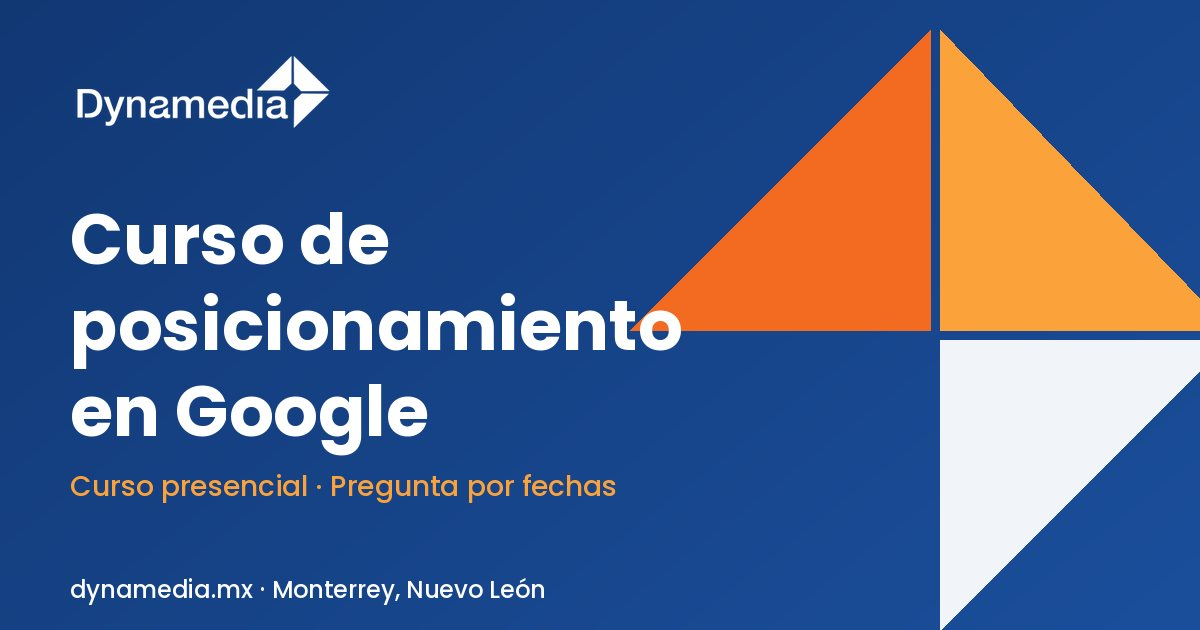
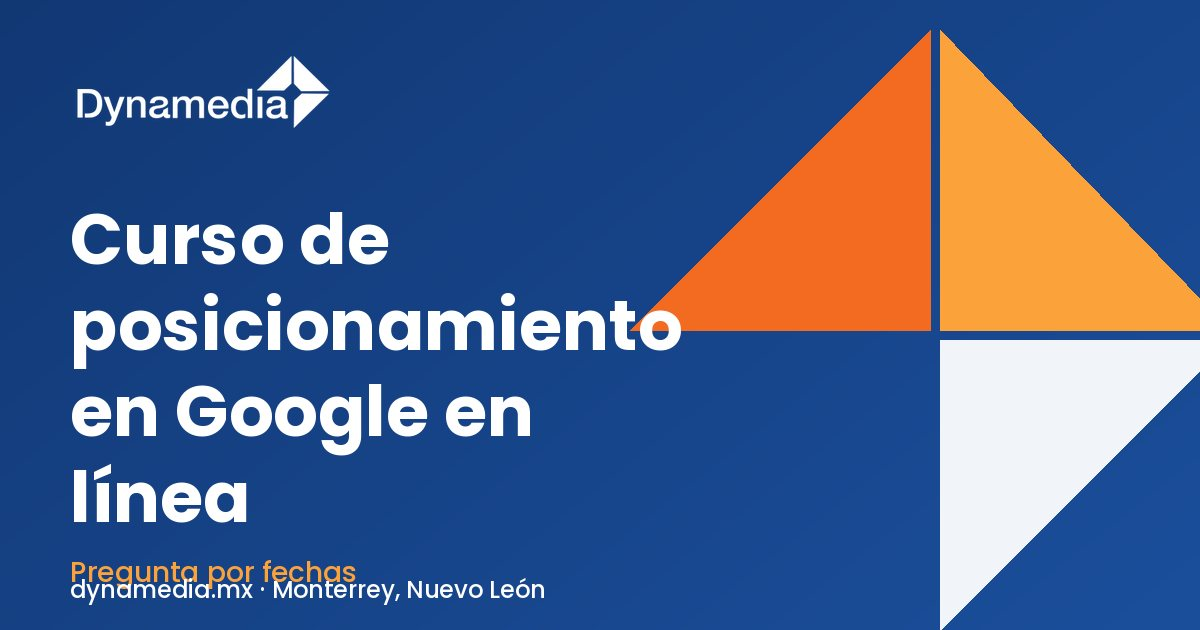
Add files via upload

Changed region(s): [[0.0617, 0.7238, 0.5242, 0.8444], [0.0617, 0.8746, 0.3083, 0.9349], [0.37, 0.6333, 0.4625, 0.6937]]

diff --git a/lib/cursos.ts b/lib/cursos.ts
@@ -11,20 +11,20 @@ export type Curso = {
 
 const m = (t: string, d: string, temas: string[]): Modulo => ({ t, d, temas });
 const f = (q: string, a: string): Faq => ({ q, a });
-const incluye = ['Clases presenciales en Monterrey', 'Práctica guiada paso a paso', 'Material de apoyo', 'Resolución de dudas posteriores'];
+const incluye = ['Clases en línea', 'Práctica guiada paso a paso', 'Material de apoyo', 'Resolución de dudas posteriores'];
 const costo = f('¿Cuánto cuesta y cuándo es el siguiente curso?', 'Pregúntanos por fechas, horarios y costo; te respondemos por WhatsApp o por correo.');
 
 // TEMARIOS Y DETALLES: propuesta redactada por Claude a partir de los nombres de los cursos. Ajusta a tu temario real.
 export const cursos: Curso[] = [
   {
-    slug: 'wordpress-monterrey', nombre: 'Curso de WordPress en Monterrey', icono: 'Globe', visual: 'navegador',
+    slug: 'wordpress-monterrey', nombre: 'Curso de WordPress en línea', icono: 'Globe', visual: 'navegador',
     corto: 'Aprende a crear y administrar tu propio sitio web, paso a paso y sin saber programar.',
-    h1: 'Curso de WordPress en Monterrey, Nuevo León',
-    title: 'Curso de WordPress en Monterrey, N.L. | Dynamedia',
-    description: 'Curso presencial de WordPress en Monterrey, N.L.: crea y administra tu propio sitio web paso a paso, sin saber programar. Pregunta por fechas.',
+    h1: 'Curso de WordPress en línea',
+    title: 'Curso de WordPress en línea | Dynamedia',
+    description: 'Curso en línea de WordPress de Dynamedia (Monterrey, N.L.): crea y administra tu propio sitio web paso a paso, sin saber programar. Pregunta por fechas.',
     intro: [
       'WordPress es una de las plataformas más usadas para crear sitios web, y permite que una persona sin conocimientos de programación publique, edite y mantenga su propia página.',
-      'En este curso presencial en Monterrey aprendes desde cero a montar tu sitio, personalizar su diseño, agregar funciones y mantenerlo seguro, con práctica guiada por un equipo que desarrolla sitios web desde 2010.',
+      'En este curso en línea aprendes desde cero a montar tu sitio, personalizar su diseño, agregar funciones y mantenerlo seguro, con práctica guiada por un equipo que desarrolla sitios web desde 2010.',
     ],
     aprenderas: [
       'Montar tu sitio en WordPress con dominio y hosting', 'Crear páginas, entradas y menús bien organizados', 'Personalizar el diseño con temas y constructores visuales',
@@ -42,11 +42,11 @@ export const cursos: Curso[] = [
     ],
     practica: 'Durante el curso construyes tu propio sitio web, o el de tu empresa, desde cero, y sales con una base lista para terminar y publicar.',
     paraQuien: ['Emprendedores y dueños de negocio', 'Personal de marketing o comunicación que actualiza la página de su empresa', 'Profesionistas que quieren su propio sitio', 'Quienes desean dejar de depender de terceros para cambios sencillos'],
-    requisitos: ['No necesitas saber programar', 'Manejo básico de computadora e internet', 'Computadora portátil con conexión a internet', 'Opcional: tu logotipo, textos e imágenes para practicar con tu proyecto'],
+    requisitos: ['No necesitas saber programar', 'Manejo básico de computadora e internet', 'Computadora con conexión a internet estable', 'Opcional: tu logotipo, textos e imágenes para practicar con tu proyecto'],
     incluye,
     faqs: [
       f('¿Necesito saber programar?', 'No. El curso está pensado para personas sin conocimientos técnicos; aprendes a usar WordPress paso a paso.'),
-      f('¿El curso es presencial?', 'Sí, es presencial en Monterrey, Nuevo León.'),
+      f('¿El curso es en línea?', 'Sí. Se imparte en línea, así que puedes tomarlo desde cualquier lugar. Pregúntanos por fechas y horarios.'),
       f('¿Puedo trabajar con mi propio proyecto?', 'Sí. Si llevas tu logotipo, textos e imágenes, practicas directamente con el sitio de tu negocio.'),
       costo,
     ],
@@ -55,12 +55,12 @@ export const cursos: Curso[] = [
   {
     slug: 'posicionamiento-en-google', nombre: 'Curso de posicionamiento web en Google', icono: 'Search', visual: 'buscador',
     corto: 'Aprende a mejorar la visibilidad de tu sitio en Google y a medir si funciona.',
-    h1: 'Curso de posicionamiento web en Google en Monterrey',
-    title: 'Curso de posicionamiento web en Google, Monterrey | Dynamedia',
-    description: 'Curso presencial de SEO y posicionamiento en Google en Monterrey, N.L.: mejora la visibilidad de tu sitio y mide resultados. Pregunta por fechas.',
+    h1: 'Curso de posicionamiento web en Google en línea',
+    title: 'Curso de posicionamiento web en Google en línea | Dynamedia',
+    description: 'Curso en línea de SEO y posicionamiento en Google de Dynamedia (Monterrey, N.L.): mejora la visibilidad de tu sitio y mide resultados. Pregunta por fechas.',
     intro: [
       'El posicionamiento web (SEO) ayuda a que tu sitio aparezca cuando las personas buscan lo que ofreces. No es magia ni se compra: se construye con una estrategia y con trabajo constante.',
-      'En este curso presencial en Monterrey aprendes cómo funciona Google, cómo elegir palabras clave, cómo optimizar tu sitio y cómo medir resultados, con énfasis en el SEO local para negocios de Monterrey y Nuevo León.',
+      'En este curso en línea aprendes cómo funciona Google, cómo elegir palabras clave, cómo optimizar tu sitio y cómo medir resultados, con énfasis en el SEO local para negocios de Monterrey y Nuevo León.',
     ],
     aprenderas: [
       'Entender cómo Google encuentra, indexa y ordena las páginas', 'Elegir las palabras clave que usan tus clientes', 'Optimizar títulos, textos, encabezados y estructura de tu sitio',
@@ -78,7 +78,7 @@ export const cursos: Curso[] = [
     ],
     practica: 'Haces una auditoría básica de tu propio sitio y sales con un plan de acción priorizado para empezar a mejorar tu posicionamiento.',
     paraQuien: ['Dueños de negocio que ya tienen sitio web', 'Equipos de marketing y ventas', 'Freelancers y consultores', 'Quienes administran un sitio en WordPress u otra plataforma'],
-    requisitos: ['Manejo básico de internet', 'Idealmente, un sitio web propio para practicar', 'Computadora portátil con conexión a internet', 'No necesitas conocimientos técnicos previos'],
+    requisitos: ['Manejo básico de internet', 'Idealmente, un sitio web propio para practicar', 'Computadora con conexión a internet estable', 'No necesitas conocimientos técnicos previos'],
     incluye,
     faqs: [
       f('¿El curso garantiza que mi sitio llegue a la primera posición?', 'No. Nadie puede garantizarlo, porque Google decide con muchos factores. Aprendes qué sí puedes mejorar y cómo medir el avance.'),

diff --git a/app/cursos/page.tsx b/app/cursos/page.tsx
@@ -14,8 +14,8 @@ import { metaPagina } from '@/lib/seo';
 import { migas } from '@/lib/schema';
 
 export const metadata: Metadata = metaPagina({
-  title: 'Cursos de WordPress y SEO en Monterrey | Dynamedia',
-  description: 'Cursos presenciales de WordPress y de posicionamiento web en Google en Monterrey, N.L. Aprende a crear y posicionar tu sitio. Pregunta por fechas.',
+  title: 'Cursos en línea de WordPress y SEO | Dynamedia',
+  description: 'Cursos en línea de WordPress y de posicionamiento web en Google de Dynamedia (Monterrey, N.L.). Aprende a crear y posicionar tu sitio. Pregunta por fechas.',
   path: '/cursos', imagen: '/og/cursos.jpg',
 });
 
@@ -32,12 +32,12 @@ const filas: { t: string; v: (c: Curso) => string }[] = [
   { t: 'Contenido', v: (c) => `${c.temario.length} módulos` },
 ];
 const faqs = [
-  { q: '¿Los cursos son presenciales?', a: 'Sí. Nuestros cursos de WordPress y de posicionamiento web son presenciales, en Monterrey, Nuevo León.' },
+  { q: '¿Los cursos son en línea?', a: 'Sí. Nuestros cursos de WordPress y de posicionamiento web son en línea, para que los tomes desde donde estés.' },
   { q: '¿Puedo tomar los dos cursos?', a: 'Sí. Se complementan: primero creas o administras tu sitio con WordPress y después aprendes a posicionarlo en Google.' },
   { q: '¿Capacitan a equipos de empresas?', a: 'Podemos preparar talleres a la medida de tu equipo. Cuéntanos tus objetivos y te proponemos un temario.' },
   { q: '¿Cuánto cuestan y cuándo son las próximas fechas?', a: 'Pregúntanos por fechas, horarios y costos; te respondemos por WhatsApp o por correo.' },
 ];
-const frases = ['curso de seo en monterrey', 'agencia de marketing digital monterrey', 'cómo salir en google maps', 'diseño web monterrey'];
+const frases = ['curso de seo en línea', 'agencia de marketing digital monterrey', 'cómo salir en google maps', 'diseño web monterrey'];
 
 export default function Cursos() {
   const wa = `${WA_BASE}${encodeURIComponent('Hola, quiero información sobre los cursos de Dynamedia en Monterrey')}`;
@@ -58,9 +58,9 @@ export default function Cursos() {
           </Parallax>
           <div className="relative mx-auto max-w-6xl px-5">
             <nav aria-label="Ruta de navegación" className="text-sm text-white/70"><Link href="/" className="hover:text-white">Inicio</Link> / Cursos</nav>
-            <p className="mt-6 text-sm font-semibold uppercase tracking-widest text-naranja-claro">Cursos presenciales · Monterrey, Nuevo León</p>
-            <h1 className="mt-3 max-w-3xl font-display text-4xl font-extrabold leading-tight md:text-6xl">Cursos de WordPress y posicionamiento en Google en Monterrey</h1>
-            <p className="mt-6 max-w-2xl text-xl text-white/85">Aprende a crear, administrar y posicionar tu propio sitio web con práctica guiada, en persona.</p>
+            <p className="mt-6 text-sm font-semibold uppercase tracking-widest text-naranja-claro">Cursos en línea</p>
+            <h1 className="mt-3 max-w-3xl font-display text-4xl font-extrabold leading-tight md:text-6xl">Cursos en línea de WordPress y posicionamiento en Google</h1>
+            <p className="mt-6 max-w-2xl text-xl text-white/85">Aprende a crear, administrar y posicionar tu propio sitio web con práctica guiada, desde donde estés.</p>
             <div className="mt-8 flex flex-wrap gap-4">
               <Magnetico><a href="#cursos-disponibles" className="brillo block rounded-full bg-naranja px-8 py-4 text-sm font-semibold uppercase tracking-widest hover:bg-naranja-claro">Ver los cursos</a></Magnetico>
               <Magnetico><a href={wa} className="flex items-center gap-2 rounded-full border border-white/40 px-8 py-4 text-sm font-semibold uppercase tracking-widest hover:bg-white/10"><MessageCircle size={18} /> Pregunta por fechas</a></Magnetico>
@@ -81,7 +81,7 @@ export default function Cursos() {
                         {c.visual === 'navegador' ? <MockNavegador /> : <BuscadorTyping frases={frases} />}
                       </div>
                       <div className="flex flex-1 flex-col p-8">
-                        <p className="text-sm font-semibold uppercase tracking-widest text-naranja">Curso presencial · Monterrey</p>
+                        <p className="text-sm font-semibold uppercase tracking-widest text-naranja">Curso en línea</p>
                         <h3 className="mt-1 font-display text-2xl font-bold text-azul">{c.nombre}</h3>
                         <p className="mt-2 text-grafito/80">{c.corto}</p>
                         <ul className="mt-5 space-y-2">{c.aprenderas.slice(0, 3).map((a) => <li key={a} className="flex gap-2 text-sm"><Check size={18} className="mt-0.5 shrink-0 text-naranja" />{a}</li>)}</ul>

diff --git a/app/cursos/[slug]/page.tsx b/app/cursos/[slug]/page.tsx
@@ -1,7 +1,7 @@
 import type { Metadata } from 'next';
 import Link from 'next/link';
 import { notFound } from 'next/navigation';
-import { ArrowUpRight, Check, MapPin, ListChecks, CalendarDays, MessageCircle } from 'lucide-react';
+import { ArrowUpRight, Check, Laptop, ListChecks, CalendarDays, MessageCircle } from 'lucide-react';
 import Header from '@/components/Header';
 import Footer from '@/components/Footer';
 import Faq from '@/components/Faq';
@@ -37,7 +37,7 @@ export default function CursoPage({ params }: { params: { slug: string } }) {
   const Icono = iconos[c.icono];
   const grafo = { '@context': 'https://schema.org', '@graph': [
     { '@type': 'Course', name: c.h1, description: c.description, url, inLanguage: 'es-MX', provider: { '@id': NEGOCIO_ID },
-      hasCourseInstance: { '@type': 'CourseInstance', courseMode: 'onsite', location: { '@type': 'Place', name: 'Monterrey, Nuevo León', address: { '@type': 'PostalAddress', addressLocality: 'Monterrey', addressRegion: 'Nuevo León', addressCountry: 'MX' } } } },
+      hasCourseInstance: { '@type': 'CourseInstance', courseMode: 'online' } },
     { '@type': 'BreadcrumbList', itemListElement: [
       { '@type': 'ListItem', position: 1, name: 'Inicio', item: SITE }, { '@type': 'ListItem', position: 2, name: 'Cursos', item: `${SITE}/cursos` }, { '@type': 'ListItem', position: 3, name: c.nombre, item: url } ] },
     { '@type': 'FAQPage', mainEntity: c.faqs.map((x) => ({ '@type': 'Question', name: x.q, acceptedAnswer: { '@type': 'Answer', text: x.a } })) },
@@ -62,11 +62,11 @@ export default function CursoPage({ params }: { params: { slug: string } }) {
               <nav aria-label="Ruta de navegación" className="text-sm text-white/70">
                 <Link href="/" className="hover:text-white">Inicio</Link> / <Link href="/cursos" className="hover:text-white">Cursos</Link> / {c.nombre}
               </nav>
-              <p className="mt-6 text-sm font-semibold uppercase tracking-widest text-naranja-claro">Curso presencial · Monterrey, Nuevo León</p>
+              <p className="mt-6 text-sm font-semibold uppercase tracking-widest text-naranja-claro">Curso en línea</p>
               <h1 className="mt-3 font-display text-4xl font-extrabold leading-tight md:text-6xl">{c.h1}</h1>
               <p className="mt-6 max-w-2xl text-lg text-white/85">{c.description}</p>
               <ul className="mt-6 flex flex-wrap gap-3 text-sm">
-                {['Presencial', 'Monterrey, N.L.', 'Práctica guiada'].map((x) => <li key={x} className="rounded-full border border-white/25 px-4 py-1.5">{x}</li>)}
+                {['En línea', 'Práctica guiada', 'Material de apoyo'].map((x) => <li key={x} className="rounded-full border border-white/25 px-4 py-1.5">{x}</li>)}
               </ul>
               <div className="mt-8 flex flex-wrap gap-4">
                 <Magnetico><a href={wa} className="brillo flex items-center gap-2 rounded-full bg-naranja px-8 py-4 text-sm font-semibold uppercase tracking-widest hover:bg-naranja-claro"><MessageCircle size={18} /> Pregunta por fechas</a></Magnetico>
@@ -90,7 +90,7 @@ export default function CursoPage({ params }: { params: { slug: string } }) {
               <Tarjeta className="border border-black/10 bg-white p-8">
                 <h3 className="font-display text-xl font-bold text-azul">Datos del curso</h3>
                 <ul className="mt-5 space-y-4">
-                  <li className="flex gap-3"><MapPin size={20} className="mt-0.5 shrink-0 text-naranja" /><span><strong>Modalidad:</strong> presencial en Monterrey, N.L.</span></li>
+                  <li className="flex gap-3"><Laptop size={20} className="mt-0.5 shrink-0 text-naranja" /><span><strong>Modalidad:</strong> en línea, desde donde estés</span></li>
                   <li className="flex gap-3"><ListChecks size={20} className="mt-0.5 shrink-0 text-naranja" /><span><strong>Contenido:</strong> {c.temario.length} módulos prácticos</span></li>
                   <li className="flex gap-3"><CalendarDays size={20} className="mt-0.5 shrink-0 text-naranja" /><span><strong>Fechas y costo:</strong> pregúntanos y te respondemos pronto</span></li>
                 </ul>

diff --git a/lib/servicios.ts b/lib/servicios.ts
@@ -250,16 +250,16 @@ export const servicios: Servicio[] = [
   },
   {
     slug: 'capacitacion', nombre: 'Capacitación', eje: 'marca', icono: 'GraduationCap',
-    corto: 'Cursos presenciales y talleres para que tu equipo domine las herramientas digitales.',
-    h1: 'Cursos y capacitación digital en Monterrey, Nuevo León',
-    title: 'Cursos y capacitación digital en Monterrey | Dynamedia',
-    description: 'Cursos presenciales de WordPress y SEO en Monterrey, y talleres de marketing digital para equipos. Pregunta por fechas y capacitación a la medida.',
+    corto: 'Cursos en línea y talleres para que tu equipo domine las herramientas digitales.',
+    h1: 'Cursos y capacitación digital en línea',
+    title: 'Cursos y capacitación digital en línea | Dynamedia',
+    description: 'Cursos en línea de WordPress y SEO, y talleres de marketing digital para equipos, de Dynamedia (Monterrey, N.L.). Pregunta por fechas y capacitación a la medida.',
     intro: [
       'Una página o una campaña rinde más cuando tu equipo sabe manejarla. Impartimos talleres para que personas y empresas aprendan a crear, administrar y posicionar sus propios sitios.',
-      'Ofrecemos cursos presenciales en Monterrey, como el curso de WordPress y el de posicionamiento web en Google, y también capacitación a la medida para equipos de trabajo.',
+      'Ofrecemos cursos en línea, como el curso de WordPress y el de posicionamiento web en Google, y también capacitación a la medida para equipos de trabajo.',
     ],
     incluye: [
-      i('Curso de WordPress en Monterrey', 'Aprende a crear y administrar tu propio sitio web.'),
+      i('Curso de WordPress en línea', 'Aprende a crear y administrar tu propio sitio web.'),
       i('Curso de posicionamiento web en Google', 'Aprende a mejorar la visibilidad de tu sitio en buscadores.'),
       i('Talleres de marketing digital', 'Estrategias y herramientas para promover tu negocio en internet.'),
       i('Uso de IA en el trabajo diario', 'Cómo aprovechar la inteligencia artificial en tareas de marketing y contenido.'),
@@ -268,14 +268,14 @@ export const servicios: Servicio[] = [
     ],
     beneficios: [
       i('Aprendes practicando', 'Cursos con ejercicios sobre casos reales.'),
-      i('Presencial en Monterrey', 'Resuelves tus dudas en persona.'),
+      i('En línea, desde donde estés', 'Tomas el curso desde cualquier lugar y resuelves tus dudas con nosotros.'),
       i('Para equipos o personas', 'Opciones para particulares y empresas.'),
       i('Más autonomía', 'Dependes menos de terceros para actualizar tu sitio.'),
     ],
     pasos: [i('Definimos objetivos', 'Vemos qué necesitas aprender y para qué.'), i('Armamos el temario', 'Preparamos el contenido adecuado a tu nivel.'), i('Impartimos el curso', 'Sesiones prácticas y participativas.'), i('Resolvemos dudas', 'Te orientamos después del curso.')],
     para: ['Emprendedores que quieren manejar su propio sitio', 'Equipos de marketing y ventas', 'Empresas que quieren actualizar su web sin depender de terceros', 'Profesionales que desean actualizarse'],
     faqs: [
-      f('¿Los cursos son presenciales?', 'Sí, nuestros cursos de WordPress y de posicionamiento web son presenciales en Monterrey. Pregúntanos por fechas y por capacitación a la medida.'),
+      f('¿Los cursos son en línea?', 'Sí, nuestros cursos de WordPress y de posicionamiento web son en línea. Pregúntanos por fechas y por capacitación a la medida.'),
       f('¿Necesito experiencia previa?', 'Depende del curso. Te orientamos para elegir el nivel adecuado antes de inscribirte.'),
       f('¿Pueden preparar un taller para mi equipo?', 'Podemos preparar talleres a la medida de tu equipo. Cuéntanos tus objetivos y te proponemos un temario.'),
     ],

diff --git a/components/heroSlides.ts b/components/heroSlides.ts
@@ -10,8 +10,8 @@ export type Slide = { id: string; eyebrow?: string; titulo: string[]; texto: str
 
 export const slides: Slide[] = [
   { id: 'somos', eyebrow: 'Diseño web, software y marketing digital en Monterrey', titulo: ['Tecnología que', 'impulsa empresas.'], texto: ['Diseñamos y desarrollamos soluciones digitales para empresas que necesitan crecer, optimizar sus procesos y aprovechar mejor la tecnología.', 'Desde sitios web y plataformas de ecommerce hasta software empresarial, automatización y estrategias de crecimiento digital.'], botones: [{ t: 'Cuéntanos tu proyecto', h: '#contacto' }, { t: 'Explora nuestros proyectos', h: '#proyectos' }], fondo: 'linear-gradient(135deg,#123874,#1B4F9C)', imagen: '/hero/01-somos.jpg', video: '/hero/video.mp4', velo: 'rgba(37,99,235,0.82)' },
-  { id: 'diseno-web', eyebrow: 'Diseño web', tam: 'medio', titulo: ['Tu empresa merece una', 'presencia digital', 'extraordinaria.'], texto: 'Diseñamos y desarrollamos sitios web profesionales que fortalecen tu marca, generan confianza y convierten visitantes en oportunidades de negocio.', botones: [{ t: 'Soluciones de diseño web', h: '/servicios/diseno-web' }], fondo: 'linear-gradient(135deg,#1B4F9C,#123874)', imagen: '/hero/02-desarrollo-web.jpg', velo: 'rgba(18,56,116,0.74)' },
-  { id: 'web-ecommerce', eyebrow: 'Desarrollo web & ecommerce', tam: 'medio', titulo: ['Tu negocio, listo para crecer', 'en el mundo digital.'], texto: 'Creamos sitios web profesionales y tiendas en línea que fortalecen tu marca, conectan con tus clientes y abren nuevas oportunidades de venta.', botones: [{ t: 'Conoce nuestras soluciones', h: '/areas/ecommerce' }], fondo: 'linear-gradient(135deg,#1B4F9C,#2B2F36)', imagen: '/hero/02-ecommerce.jpg', velo: 'rgba(18,56,116,0.72)' },
+  { id: 'diseno-web', eyebrow: 'Diseño web', tam: 'medio', titulo: ['Tu empresa merece una', 'presencia digital', 'extraordinaria.'], texto: 'Diseñamos y desarrollamos sitios web profesionales que fortalecen tu marca, generan confianza y convierten visitantes en oportunidades de negocio.', botones: [{ t: 'Soluciones de diseño web', h: '/servicios/diseno-web' }], fondo: 'linear-gradient(135deg,#1B4F9C,#123874)', imagen: '/hero/02-diseno-web.jpg', velo: 'rgba(18,56,116,0.74)' },
+  { id: 'web-ecommerce', eyebrow: 'Diseño web & ecommerce', tam: 'medio', titulo: ['Tu negocio, listo para crecer', 'en el mundo digital.'], texto: 'Creamos sitios web profesionales y tiendas en línea que fortalecen tu marca, conectan con tus clientes y abren nuevas oportunidades de venta.', botones: [{ t: 'Conoce nuestras soluciones', h: '/areas/ecommerce' }], fondo: 'linear-gradient(135deg,#1B4F9C,#2B2F36)', imagen: '/hero/02-ecommerce.jpg', velo: 'rgba(18,56,116,0.72)' },
   { id: 'software', eyebrow: 'Software & automatización', tam: 'medio', titulo: ['Simplifica procesos.', 'Transforma tu empresa.'], texto: 'Desarrollamos sistemas y soluciones tecnológicas a la medida para optimizar operaciones, integrar información y automatizar tareas de tu negocio.', botones: [{ t: 'Descubre lo que podemos desarrollar', h: '/areas/software-a-la-medida' }], fondo: 'linear-gradient(135deg,#123874,#2B2F36)', imagen: '/hero/03-software.jpg', velo: 'rgba(43,47,54,0.66)' },
   { id: 'crecimiento', eyebrow: 'Estrategia & crecimiento digital', tam: 'medio', titulo: ['Haz que tu empresa', 'llegue más lejos.'], texto: 'Impulsamos tu presencia en internet mediante SEO, Google Ads y estrategias digitales enfocadas en atraer clientes y generar oportunidades comerciales.', botones: [{ t: 'Impulsa tu crecimiento digital', h: '/areas/crecimiento-digital' }], fondo: 'linear-gradient(135deg,#F26B21,#123874)', imagen: '/hero/04-crecimiento.jpg', velo: 'rgba(18,56,116,0.68)' },
 ];

diff --git a/lib/areas.ts b/lib/areas.ts
@@ -14,14 +14,14 @@ const f = (q: string, a: string): Faq => ({ q, a });
 // Las 4 áreas de trabajo del inicio. Titular, texto y lista salen de tu información; el resto (intro, beneficios, pasos, preguntas) es propuesta.
 export const areas: Area[] = [
   {
-    slug: 'desarrollo-web', n: '01', nombre: 'Desarrollo web', icono: 'Globe',
+    slug: 'diseno-web', n: '01', nombre: 'Diseño web', icono: 'Globe',
     titulo: 'Tu empresa merece una presencia digital profesional.',
     texto: 'Diseñamos y desarrollamos sitios web funcionales, atractivos y estratégicos que fortalecen tu marca y generan oportunidades comerciales.',
     lista: ['Diseño y desarrollo de páginas web.', 'Sitios web corporativos.', 'Landing pages.', 'Portales y sitios especializados.', 'Rediseño y mantenimiento web.'],
     cta: 'Conoce nuestros servicios web',
-    h1: 'Desarrollo web en Monterrey, Nuevo León',
-    title: 'Desarrollo web en Monterrey: sitios y portales | Dynamedia',
-    description: 'Desarrollo web en Monterrey: sitios corporativos, landing pages, portales y rediseño. Una presencia digital profesional que genera clientes. Cotiza.',
+    h1: 'Diseño web en Monterrey, Nuevo León',
+    title: 'Diseño web en Monterrey: sitios corporativos | Dynamedia',
+    description: 'Diseño web en Monterrey: sitios corporativos, landing pages, portales y rediseño. Una presencia digital profesional que genera clientes. Cotiza.',
     intro: [
       'Tu sitio web es la primera impresión de tu empresa en internet. Tiene que verse profesional, cargar rápido, funcionar en celular y explicar con claridad qué haces y cómo contactarte.',
       'Esta área reúne todo lo que necesitas para lograrlo: diseño y desarrollo de sitios, páginas corporativas, landing pages, portales especializados, y rediseño y mantenimiento de los que ya tienes. Trabajamos con empresas de Monterrey, Nuevo León, y de todo México.',
@@ -30,7 +30,7 @@ export const areas: Area[] = [
     beneficios: [i('Imagen profesional', 'Un sitio que presenta bien a tu empresa desde la primera visita.'), i('Pensado para convertir', 'Estructura y mensajes que invitan al contacto y a la cotización.'), i('Preparado para Google', 'Base técnica y de contenido lista para el posicionamiento.'), i('Con acompañamiento', 'Soporte y actualización después de publicar.')],
     pasos: [i('Descubrimiento', 'Entendemos tu negocio, tu público y lo que necesitas lograr.'), i('Diseño', 'Proponemos la estructura y la imagen de tu sitio.'), i('Desarrollo', 'Construimos y probamos cada sección.'), i('Lanzamiento y soporte', 'Publicamos y seguimos a tu lado.')],
     faqs: [
-      f('¿Qué incluye el área de desarrollo web?', 'Diseño y desarrollo de páginas web, sitios corporativos, landing pages, portales y sitios especializados, y rediseño y mantenimiento web.'),
+      f('¿Qué incluye el área de diseño web?', 'Diseño y desarrollo de páginas web, sitios corporativos, landing pages, portales y sitios especializados, y rediseño y mantenimiento web.'),
       f('¿Pueden rediseñar el sitio que ya tengo?', 'Sí. Revisamos tu sitio actual, conservamos lo que funciona y lo renovamos en diseño, estructura y velocidad.'),
       f('¿Atienden a empresas fuera de Monterrey?', 'Sí. Estamos en Monterrey, Nuevo León, y trabajamos con empresas de todo México.'),
     ],

diff --git a/components/NosotrosTabs.tsx b/components/NosotrosTabs.tsx
@@ -29,7 +29,7 @@ const valores = [
 ];
 const sectores = [
   { icon: Store, t: 'Tiendas departamentales' }, { icon: Factory, t: 'Industriales' }, { icon: Briefcase, t: 'Servicios' },
-  { icon: Newspaper, t: 'Periódicos digitales' }, { icon: Globe, t: 'Sitios informativos' },
+  { icon: Newspaper, t: 'Periódicos digitales' }, { icon: Globe, t: 'Sitios informativos' }, { icon: GraduationCap, t: 'Educación y capacitación' },
 ];
 
 // Tarjeta con luz que sigue al cursor
@@ -137,8 +137,8 @@ export default function NosotrosTabs() {
 
         <div {...panel(3)}>
           <h2 className="font-display text-3xl font-bold md:text-4xl">Empresas que confían en nosotros</h2>
-          <p className="mt-4 max-w-3xl text-lg text-grafito/85">Entre las empresas que nos han brindado su confianza se encuentran tiendas departamentales, industriales y de servicios, así como periódicos digitales y sitios informativos.</p>
-          <div className="mt-8 grid gap-4 sm:grid-cols-2 lg:grid-cols-5">
+          <p className="mt-4 max-w-3xl text-lg text-grafito/85">Entre las empresas que nos han brindado su confianza se encuentran tiendas departamentales, industriales y de servicios, así como periódicos digitales, sitios informativos y proyectos de educación y capacitación.</p>
+          <div className="mt-8 grid gap-4 sm:grid-cols-3 lg:grid-cols-6">
             {sectores.map(({ icon: Icon, t }) => (
               <Tarjeta key={t} className="text-center"><div className="mx-auto flex h-12 w-12 items-center justify-center rounded-lg bg-azul text-white transition-colors group-hover:bg-naranja"><Icon size={24} /></div><p className="mt-4 font-semibold text-azul">{t}</p></Tarjeta>
             ))}

diff --git a/components/CursosSoporte.tsx b/components/CursosSoporte.tsx
@@ -4,7 +4,7 @@ import { Tarjeta } from './ui';
 import Reveal from './Reveal';
 
 const cursos = [
-  { t: 'Curso de WordPress en Monterrey', d: 'Aprende a crear y administrar tu propio sitio web.', h: '/cursos/wordpress-monterrey' },
+  { t: 'Curso de WordPress en línea', d: 'Aprende a crear y administrar tu propio sitio web.', h: '/cursos/wordpress-monterrey' },
   { t: 'Curso de posicionamiento web en Google', d: 'Aprende a mejorar la visibilidad de tu sitio en buscadores.', h: '/cursos/posicionamiento-en-google' },
 ];
 const soporte = ['Soporte para el manejo de tu sitio', 'Actualización de contenidos', 'Resolución de problemas en tu página o sistema', 'Pólizas de soporte (pregunta por ellas)'];
@@ -17,7 +17,7 @@ export default function CursosSoporte() {
           <div id="cursos" className="h-full scroll-mt-24">
             <Tarjeta className="h-full border border-black/10 bg-white p-8 md:p-10" inner="relative flex h-full flex-col">
               <div className="flex h-14 w-14 items-center justify-center rounded-xl bg-azul text-white transition-colors group-hover:bg-naranja"><GraduationCap size={28} /></div>
-              <p className="mt-6 text-sm font-semibold uppercase tracking-widest text-naranja">Cursos presenciales</p>
+              <p className="mt-6 text-sm font-semibold uppercase tracking-widest text-naranja">Cursos en línea</p>
               <h2 className="mt-1 font-display text-2xl font-bold text-azul md:text-3xl">Aprende a crear y posicionar tu propio sitio</h2>
               <p className="mt-3 text-grafito/80">Capacitamos a equipos y a particulares que quieren crear o mantener páginas de internet.</p>
               <ul className="mt-6 space-y-3">

diff --git a/components/HomeSecciones.tsx b/components/HomeSecciones.tsx
@@ -41,12 +41,12 @@ export function PorQue() {
 }
 
 export function Giros() {
-  const giros = [{ icon: Store, t: 'Tiendas departamentales' }, { icon: Factory, t: 'Industriales' }, { icon: Briefcase, t: 'Servicios' }, { icon: Newspaper, t: 'Periódicos digitales' }, { icon: Globe, t: 'Sitios informativos' }];
+  const giros = [{ icon: Store, t: 'Tiendas departamentales' }, { icon: Factory, t: 'Industriales' }, { icon: Briefcase, t: 'Servicios' }, { icon: Newspaper, t: 'Periódicos digitales' }, { icon: Globe, t: 'Sitios informativos' }, { icon: GraduationCap, t: 'Educación y capacitación' }];
   return (
     <section className="mx-auto max-w-6xl px-5 py-20">
       <h2 className="font-display text-3xl font-bold md:text-4xl">Experiencia en distintos giros</h2>
-      <p className="mt-3 max-w-2xl text-grafito/80">Hemos desarrollado proyectos para empresas comerciales, industriales y de servicios, así como para medios digitales y sitios informativos.</p>
-      <div className="mt-10 grid grid-cols-2 gap-4 md:grid-cols-5">
+      <p className="mt-3 max-w-2xl text-grafito/80">Hemos desarrollado proyectos para empresas comerciales, industriales y de servicios, así como para medios digitales, sitios informativos y proyectos de educación y capacitación.</p>
+      <div className="mt-10 grid grid-cols-2 gap-4 md:grid-cols-3 lg:grid-cols-6">
         {giros.map(({ icon: Icon, t }, k) => (
           <Reveal key={t} delay={k * 90} className="h-full">
             <Tarjeta className="h-full border border-black/10 bg-white p-6 text-center">

diff --git a/app/page.tsx b/app/page.tsx
@@ -22,7 +22,7 @@ const faqs = [
   { q: '¿Dónde está Dynamedia y a quién atiende?', a: 'Estamos en Monterrey, Nuevo León, y trabajamos con empresas de Monterrey y de todo México.' },
   { q: '¿Qué servicios ofrece Dynamedia?', a: 'Diseño web, ecommerce (tiendas en línea), software a la medida, posicionamiento en Google, campañas de pago por clic, redes sociales, contenido con IA, diseño gráfico y capacitación.' },
   { q: '¿Dan soporte después de entregar el proyecto?', a: 'Sí. Seguimos brindando soporte para el manejo y la actualización de los sitios que desarrollamos, y ofrecemos pólizas de soporte.' },
-  { q: '¿Imparten cursos?', a: 'Sí. Ofrecemos cursos presenciales, como el de WordPress y el de posicionamiento web en Google, y talleres para equipos.' },
+  { q: '¿Imparten cursos?', a: 'Sí. Ofrecemos cursos en línea, como el de WordPress y el de posicionamiento web en Google, y talleres para equipos.' },
   { q: '¿Cuánto cuesta un proyecto y cuánto tarda?', a: 'Depende del alcance de cada proyecto. Cuéntanos qué necesitas y te enviamos una cotización con costos y tiempos.' },
 ];
 const grafo = { '@context': 'https://schema.org', '@type': 'FAQPage', mainEntity: faqs.map((x) => ({ '@type': 'Question', name: x.q, acceptedAnswer: { '@type': 'Answer', text: x.a } })) };

diff --git a/lib/testimonios.ts b/lib/testimonios.ts
@@ -5,8 +5,8 @@ export const MOSTRAR_PENDIENTES = true;
 export type Testimonio = { id: string; nombre: string; empresa: string; cargo?: string; texto?: string };
 
 export const testimonios: Testimonio[] = [
-  { id: 'trofeos-mg', nombre: 'Alfonso M.', empresa: 'Trofeos MG' },
-  { id: 'gsf-cargo', nombre: 'Miguel F.', empresa: 'GSF Cargo' },
+  { id: 'trofeos-mg', nombre: 'Alfonso M.', empresa: 'Trofeos MG', texto: 'Trabajar con Dynamedia ha sido una excelente experiencia. Destaco su profesionalismo, atención y disposición para entender nuestras necesidades y encontrar soluciones adecuadas para nuestro negocio. Siempre recibimos un trato cercano y un servicio de calidad. Sin duda, es un equipo que recomiendo.' },
+  { id: 'gsf-cargo', nombre: 'Miguel F.', empresa: 'GSF Cargo', texto: 'Dynamedia nos brindó soluciones digitales que nos ayudaron a fortalecer nuestra presencia en línea y mejorar nuestros procesos. Su experiencia, creatividad y compromiso hicieron que trabajar juntos sea una experiencia muy positiva. Recomiendo ampliamente sus servicios por su calidad y atención.' },
 ];
 
 export const iniciales = (n: string) => n.replace(/\./g, '').split(' ').map((w) => w[0]).join('').slice(0, 2).toUpperCase();

diff --git a/components/Testimonios.tsx b/components/Testimonios.tsx
@@ -22,7 +22,7 @@ export default function Testimonios() {
                 <figure className="h-full">
                   <Tarjeta className="h-full border border-white/15 bg-white/5 p-8 backdrop-blur md:p-10" luz="rgba(255,255,255,0.14)" inner="relative flex h-full flex-col">
                     <Quote aria-hidden size={56} className="text-naranja-claro transition-transform duration-300 group-hover:-rotate-6 group-hover:scale-110" />
-                    <blockquote className="mt-5 flex-1 text-xl leading-relaxed md:text-2xl">
+                    <blockquote className="mt-5 flex-1 text-lg leading-relaxed md:text-xl">
                       {t.texto ?? <span className="flex flex-wrap items-center gap-2 text-base text-white/70"><span className="rounded bg-amber-100 px-2 py-0.5 text-xs font-semibold text-amber-800">Pendiente</span> Falta el testimonio de {t.nombre}.</span>}
                     </blockquote>
                     <figcaption className="mt-8 flex items-center gap-4 border-t border-white/15 pt-6">
